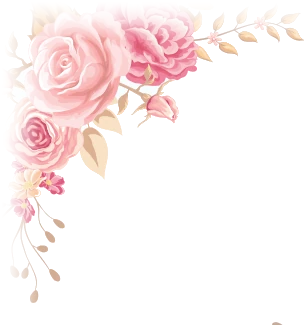
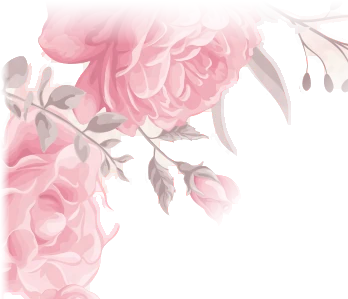
Agrega racimos tupidos de rosas en las esquinas de camila-xv
Del set Vecteezy 8775211 (fondo de papel y texto quitados): esquinas de la
portada en lugar del arco, esquinas de la galería pegadas al borde y un
racimo al pie de la foto final.

diff --git a/sites/camila-xv/index.html b/sites/camila-xv/index.html
@@ -166,14 +166,23 @@
         @sobre-abierto.window="setTimeout(() => (show = true), 100)"
         class="relative w-full overflow-hidden px-6 pb-16 text-center"
       >
-        <!-- public/images/decoracion/arco-rosas.webp — medio aro de rosas que enmarca "Mis XV Años" -->
+        <!-- Racimos de rosas en las esquinas de arriba (public/images/decoracion/portada-sup-*.webp) -->
         <img
-          src="/images/decoracion/arco-rosas.webp"
+          src="/images/decoracion/portada-sup-izq.webp"
           alt=""
           aria-hidden="true"
           fetchpriority="high"
           onerror="this.remove()"
-          class="pointer-events-none absolute inset-x-0 top-0 w-full transition-opacity duration-1000"
+          class="pointer-events-none absolute left-0 top-0 w-[46%] transition-opacity duration-1000"
+          :class="show ? 'opacity-100' : 'opacity-0'"
+        />
+        <img
+          src="/images/decoracion/portada-sup-der.webp"
+          alt=""
+          aria-hidden="true"
+          fetchpriority="high"
+          onerror="this.remove()"
+          class="pointer-events-none absolute right-0 top-0 w-[42%] transition-opacity duration-1000"
           :class="show ? 'opacity-100' : 'opacity-0'"
         />
 
@@ -481,8 +490,8 @@
           </div>
 
           <!-- Esquinas de rosas sobre la galería -->
-          <img src="/images/decoracion/esquina-galeria-sup.webp" alt="" aria-hidden="true" loading="lazy" class="pointer-events-none absolute -left-6 -top-8 z-10 w-2/3" />
-          <img src="/images/decoracion/esquina-galeria-inf.webp" alt="" aria-hidden="true" loading="lazy" class="pointer-events-none absolute bottom-16 -right-6 z-10 w-2/3 -scale-x-100" />
+          <img src="/images/decoracion/esquina-galeria-sup.webp" alt="" aria-hidden="true" loading="lazy" class="pointer-events-none absolute left-0 -top-8 z-10 w-1/2" />
+          <img src="/images/decoracion/esquina-galeria-inf.webp" alt="" aria-hidden="true" loading="lazy" class="pointer-events-none absolute bottom-16 right-0 z-10 w-1/2" />
 
             <!-- Visor a pantalla completa -->
             <div
@@ -876,6 +885,7 @@
       <template x-if="$store.event.fotos.final">
         <div class="relative mt-10 w-full">
           <img src="/images/decoracion/ramo-rosas.webp" alt="" aria-hidden="true" loading="lazy" class="pointer-events-none absolute -right-8 -top-24 z-10 w-1/2" />
+          <img src="/images/decoracion/final-inf-izq.webp" alt="" aria-hidden="true" loading="lazy" class="pointer-events-none absolute bottom-0 left-0 z-10 w-1/2" />
           <!-- Sólo el borde de arriba rasgado: la máscara se estira para esconder el de abajo -->
           <div class="aspect-[3/4] w-full bg-gradient-to-b from-[#f0dcd6] to-[#e6cdc5] [mask-image:url('/images/rasgado.svg')] [mask-size:100%_106%] [mask-position:top]">
             <img :src="$store.event.fotos.final" alt="" loading="lazy" onerror="this.style.display='none'" class="h-full w-full object-cover" />
